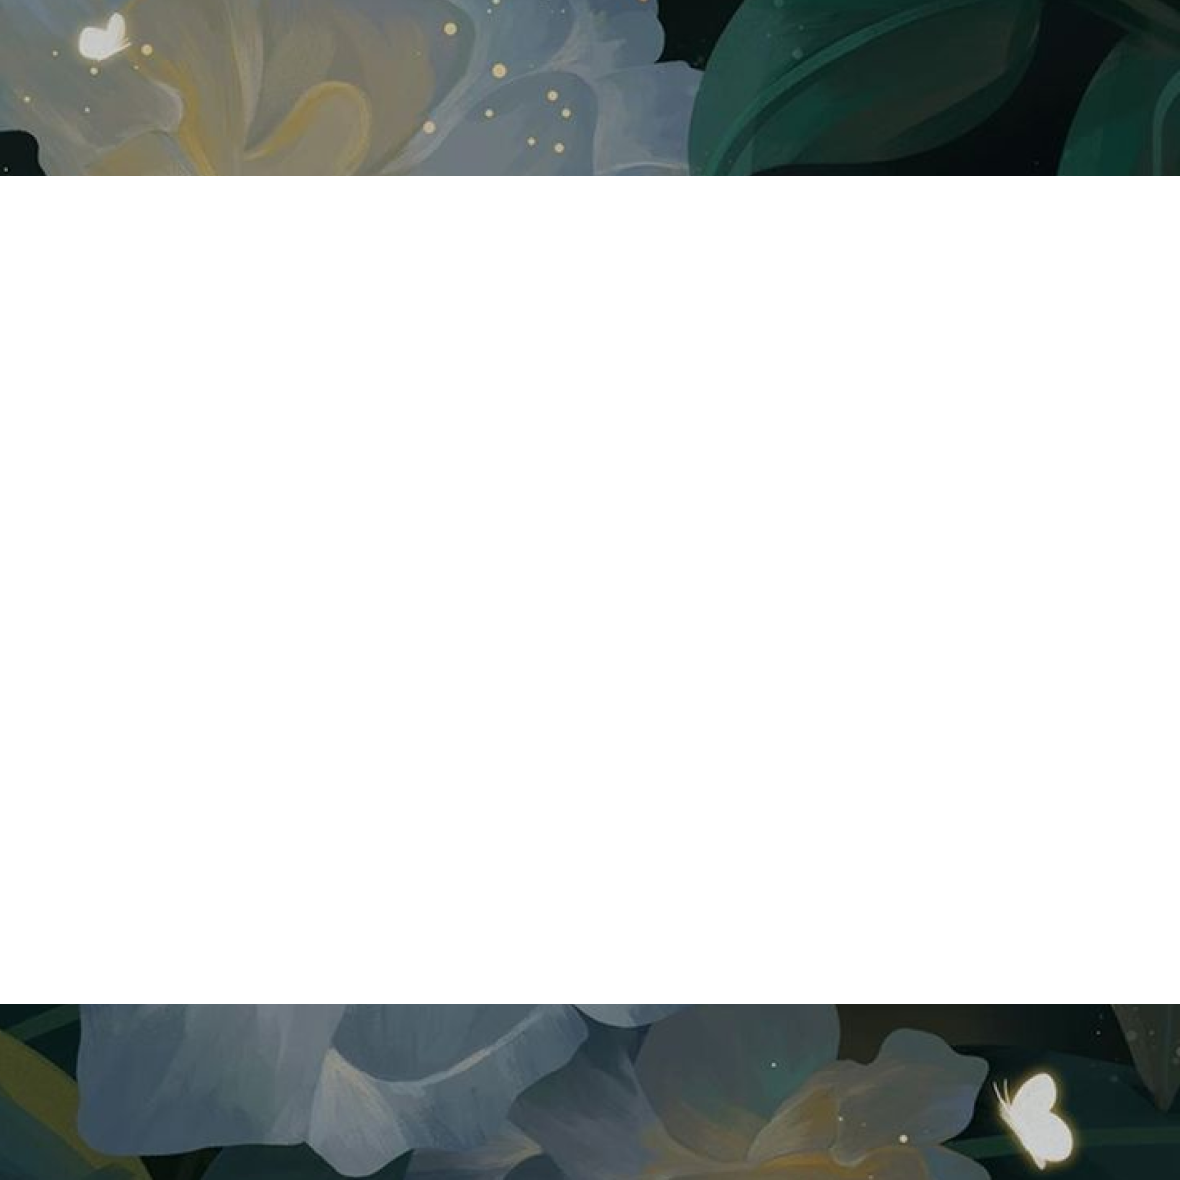
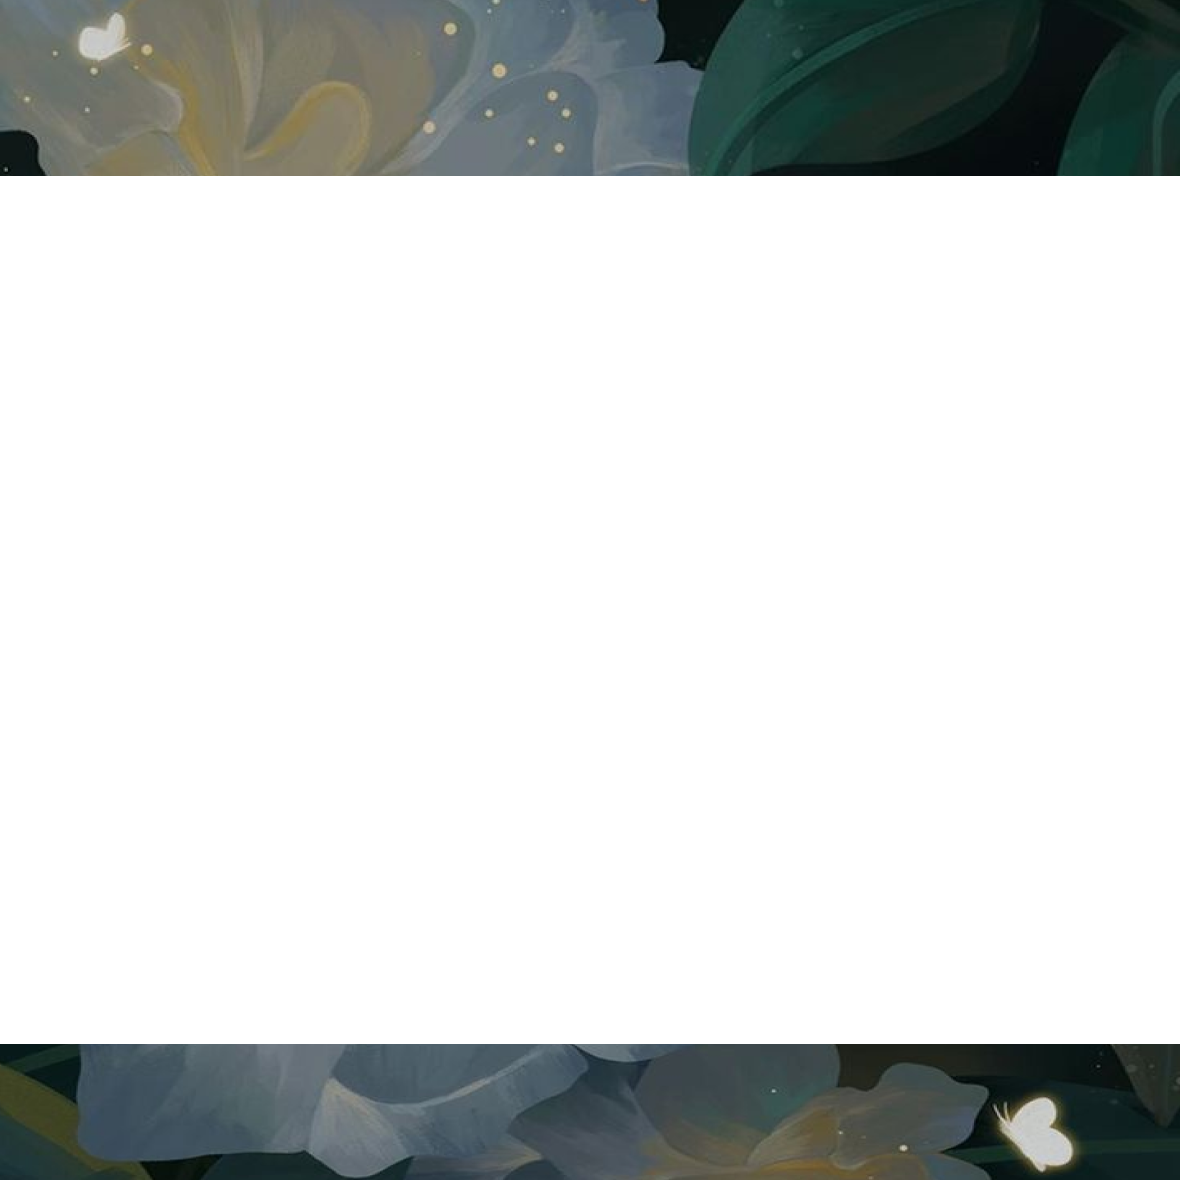
fix background image

diff --git a/src/app/page.js b/src/app/page.js
@@ -75,7 +75,8 @@ const handleCardClick = (card)=>{
           className='flex flex-col justify-center items-center text-center absolute z-20 w-full h-full'
           onSubmit={handleFormSubmit}
         >
-          <div className={`aspect-square w-2/3 bg-[url("/${selectedCard}.png")] rounded flex flex-col justify-center relative bg-contain`}>
+          <div className={`aspect-square w-2/3 rounded flex flex-col justify-center relative bg-contain`}
+            style={{ backgroundImage: `url("/${selectedCard}.png")` }} >
             <textarea
               value={content}
               onChange={(e) => setContent(e.target.value)}
@@ -104,21 +105,28 @@ const handleCardClick = (card)=>{
             <button 
             onClick={()=>handleCardClick(sos.crd)}
             key={index} 
-            className={`w-20 h-20 bg-[url("/${sos.btn}.png")] z-50 bg-contain ${selectedCard===sos.crd ? 'border-green-500': 'border-slate-500' }  border-4 rounded-full aspect-square`} 
+            style={{ backgroundImage: `url("/${sos.btn}.png")` }} 
+            className={`w-20 h-20  z-50 bg-contain ${selectedCard===sos.crd ? 'border-green-500': 'border-slate-500' }  border-4 rounded-full aspect-square`} 
             type='button'></button>
           ))}
         </div>
           </div>
       ) : (
-        <button onClick={() => setShowForm(true)}>Tambah Confession</button> 
+        <div className='flex justify-center mt-4'>
+        <div className='bg-[url("/add.png")] w-60 flex items-center justify-center h-44 bg-cover'>
+        <button onClick={() => setShowForm(true)} className='text-sm mt-6'>Tambah <br/> Confession</button> 
+        </div>
+        </div>
       )}
       {showForm?null:(<ul>
         {confessions.map((confession) => (
-          <div className='flex flex-col justify-center text-center gap-10 items-center'>
-            <li key={confession.id} className={`bg-[url(/${confession.background}.png)] bg-contain w-2/3 aspect-square relative justify-center flex flex-col rounded my-5`}>
+          <div className='flex flex-col justify-center text-center gap-10 items-center '>
+            <li key={confession.id} className={` bg-contain w-2/3 aspect-square relative justify-center flex flex-col rounded my-5 shadow`}
+            style={{ backgroundImage: `url("/${confession.background}.png")` }} >
+            
               <p className='  '>{confession.content}</p>
               <div className='absolute right-5 bottom-5 flex items-center justify-center'>
-                <h1 className='self-start text-sm tracking-widest my-auto mr-2 font-semibold shadow-md'>{confession.name}</h1>
+                <h1 className='self-start text-sm tracking-widest my-auto mr-2 font-semibold drop-shadow'>{confession.name}</h1>
                 <img
                   className='rounded-full w-7'
                   src="https://i0.wp.com/www.repol.copl.ulaval.ca/wp-content/uploads/2019/01/default-user-icon.jpg?ssl=1" alt=""/>
